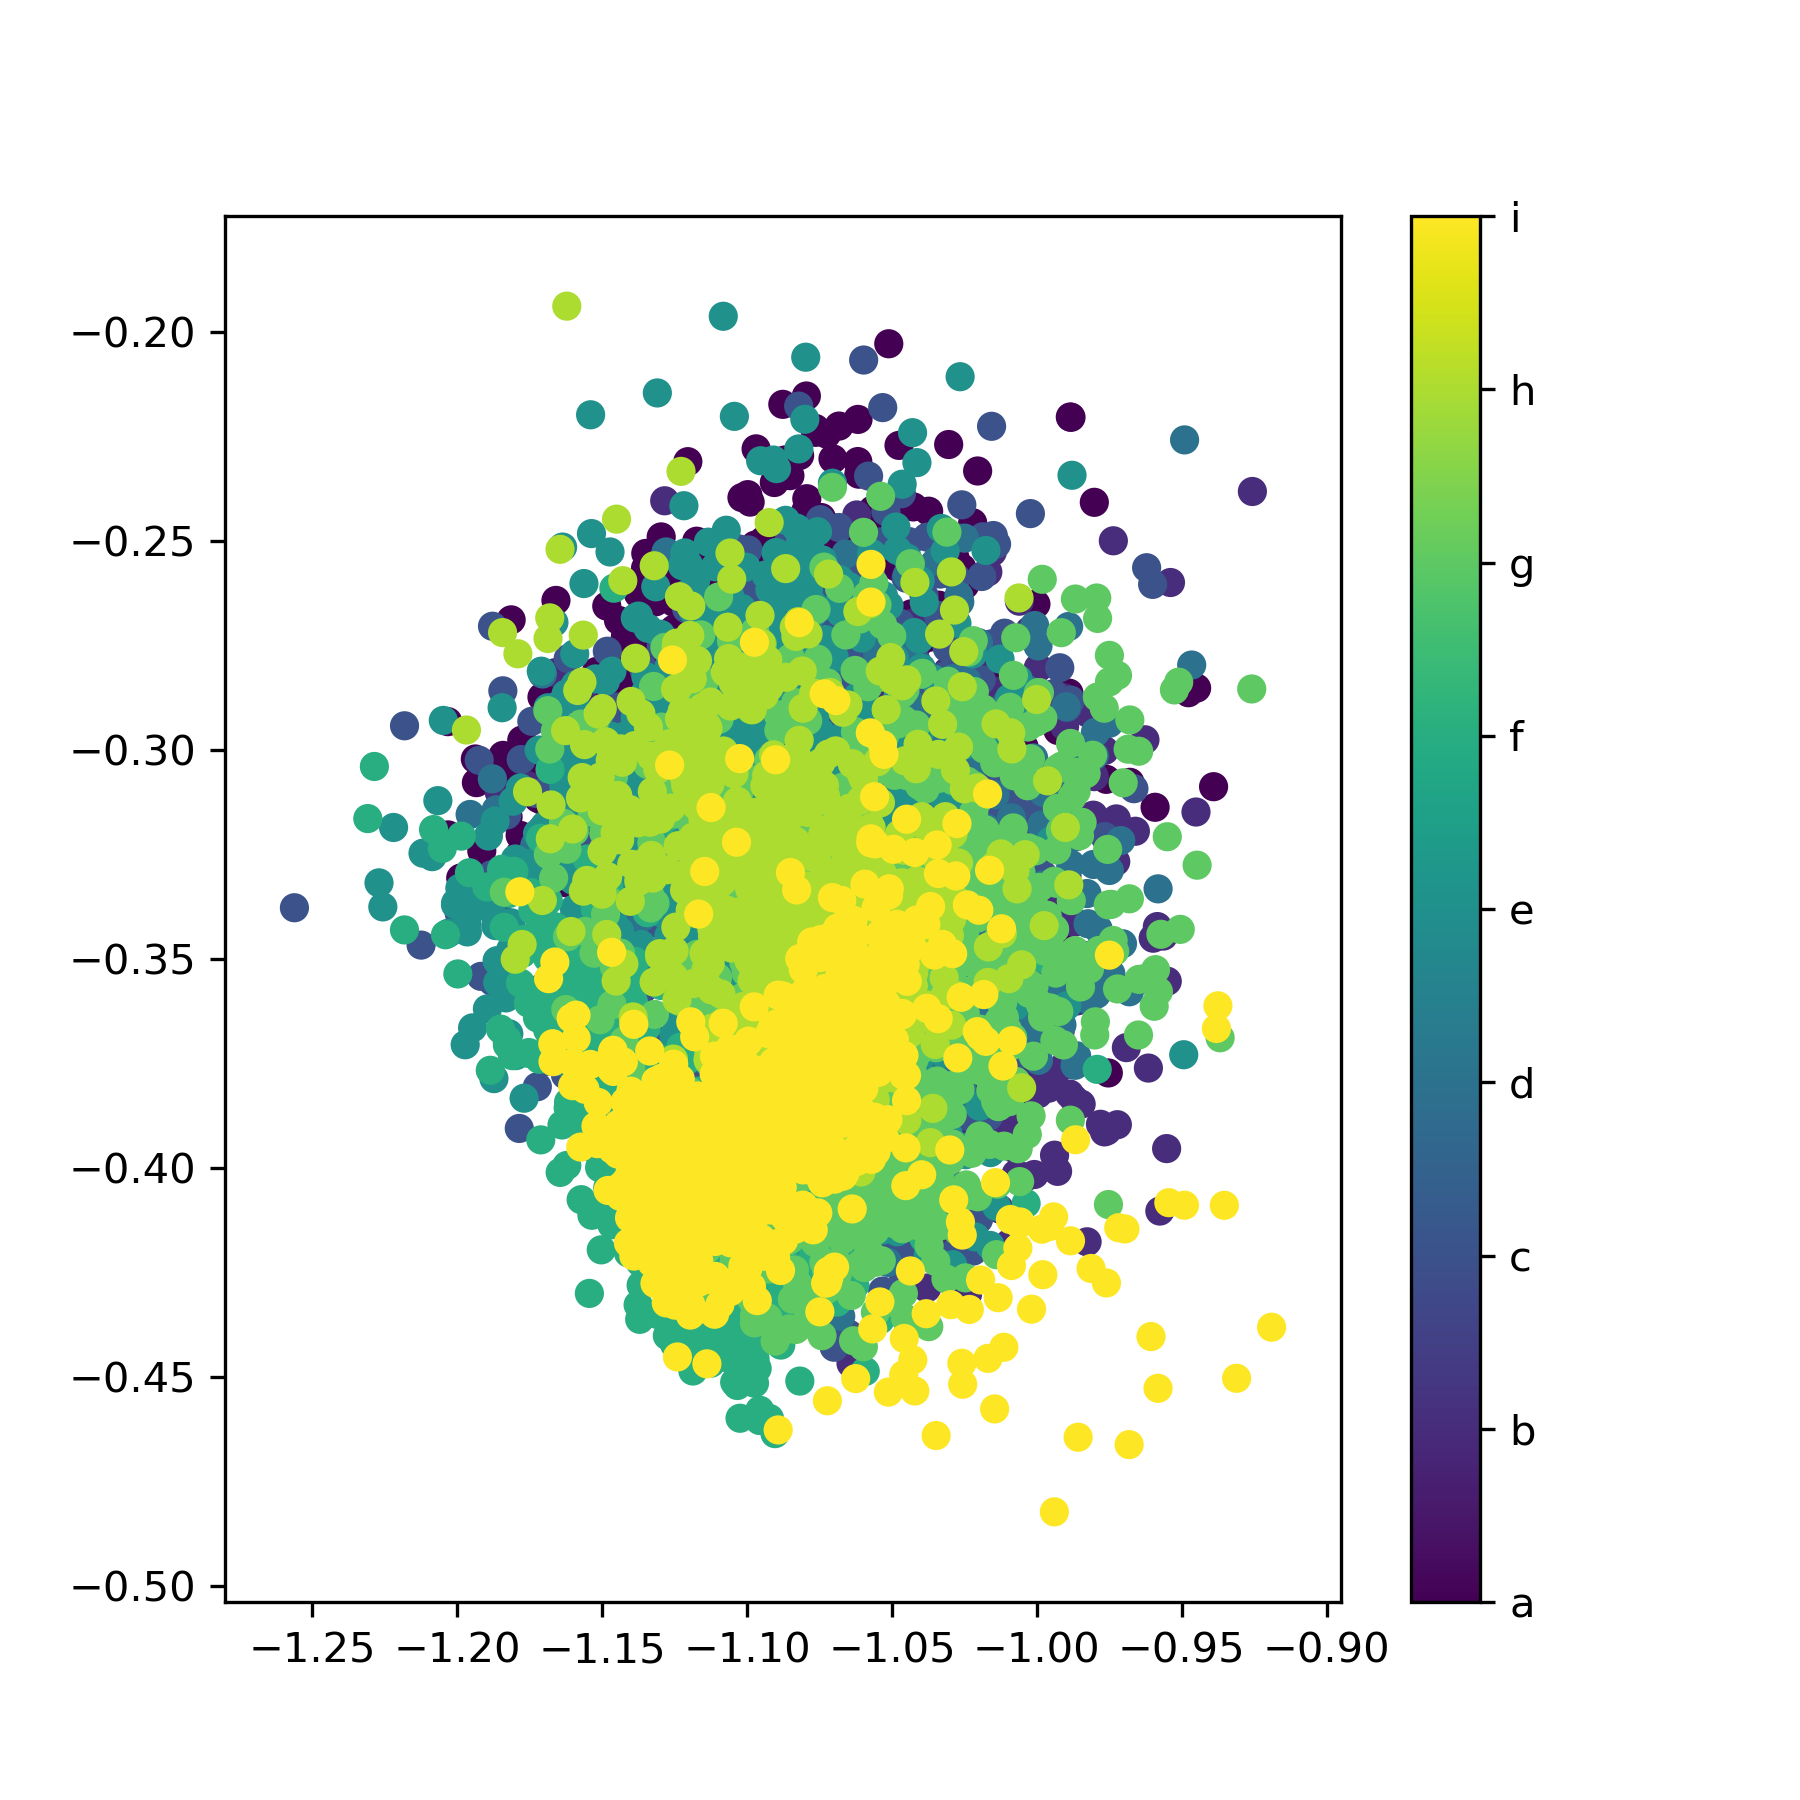
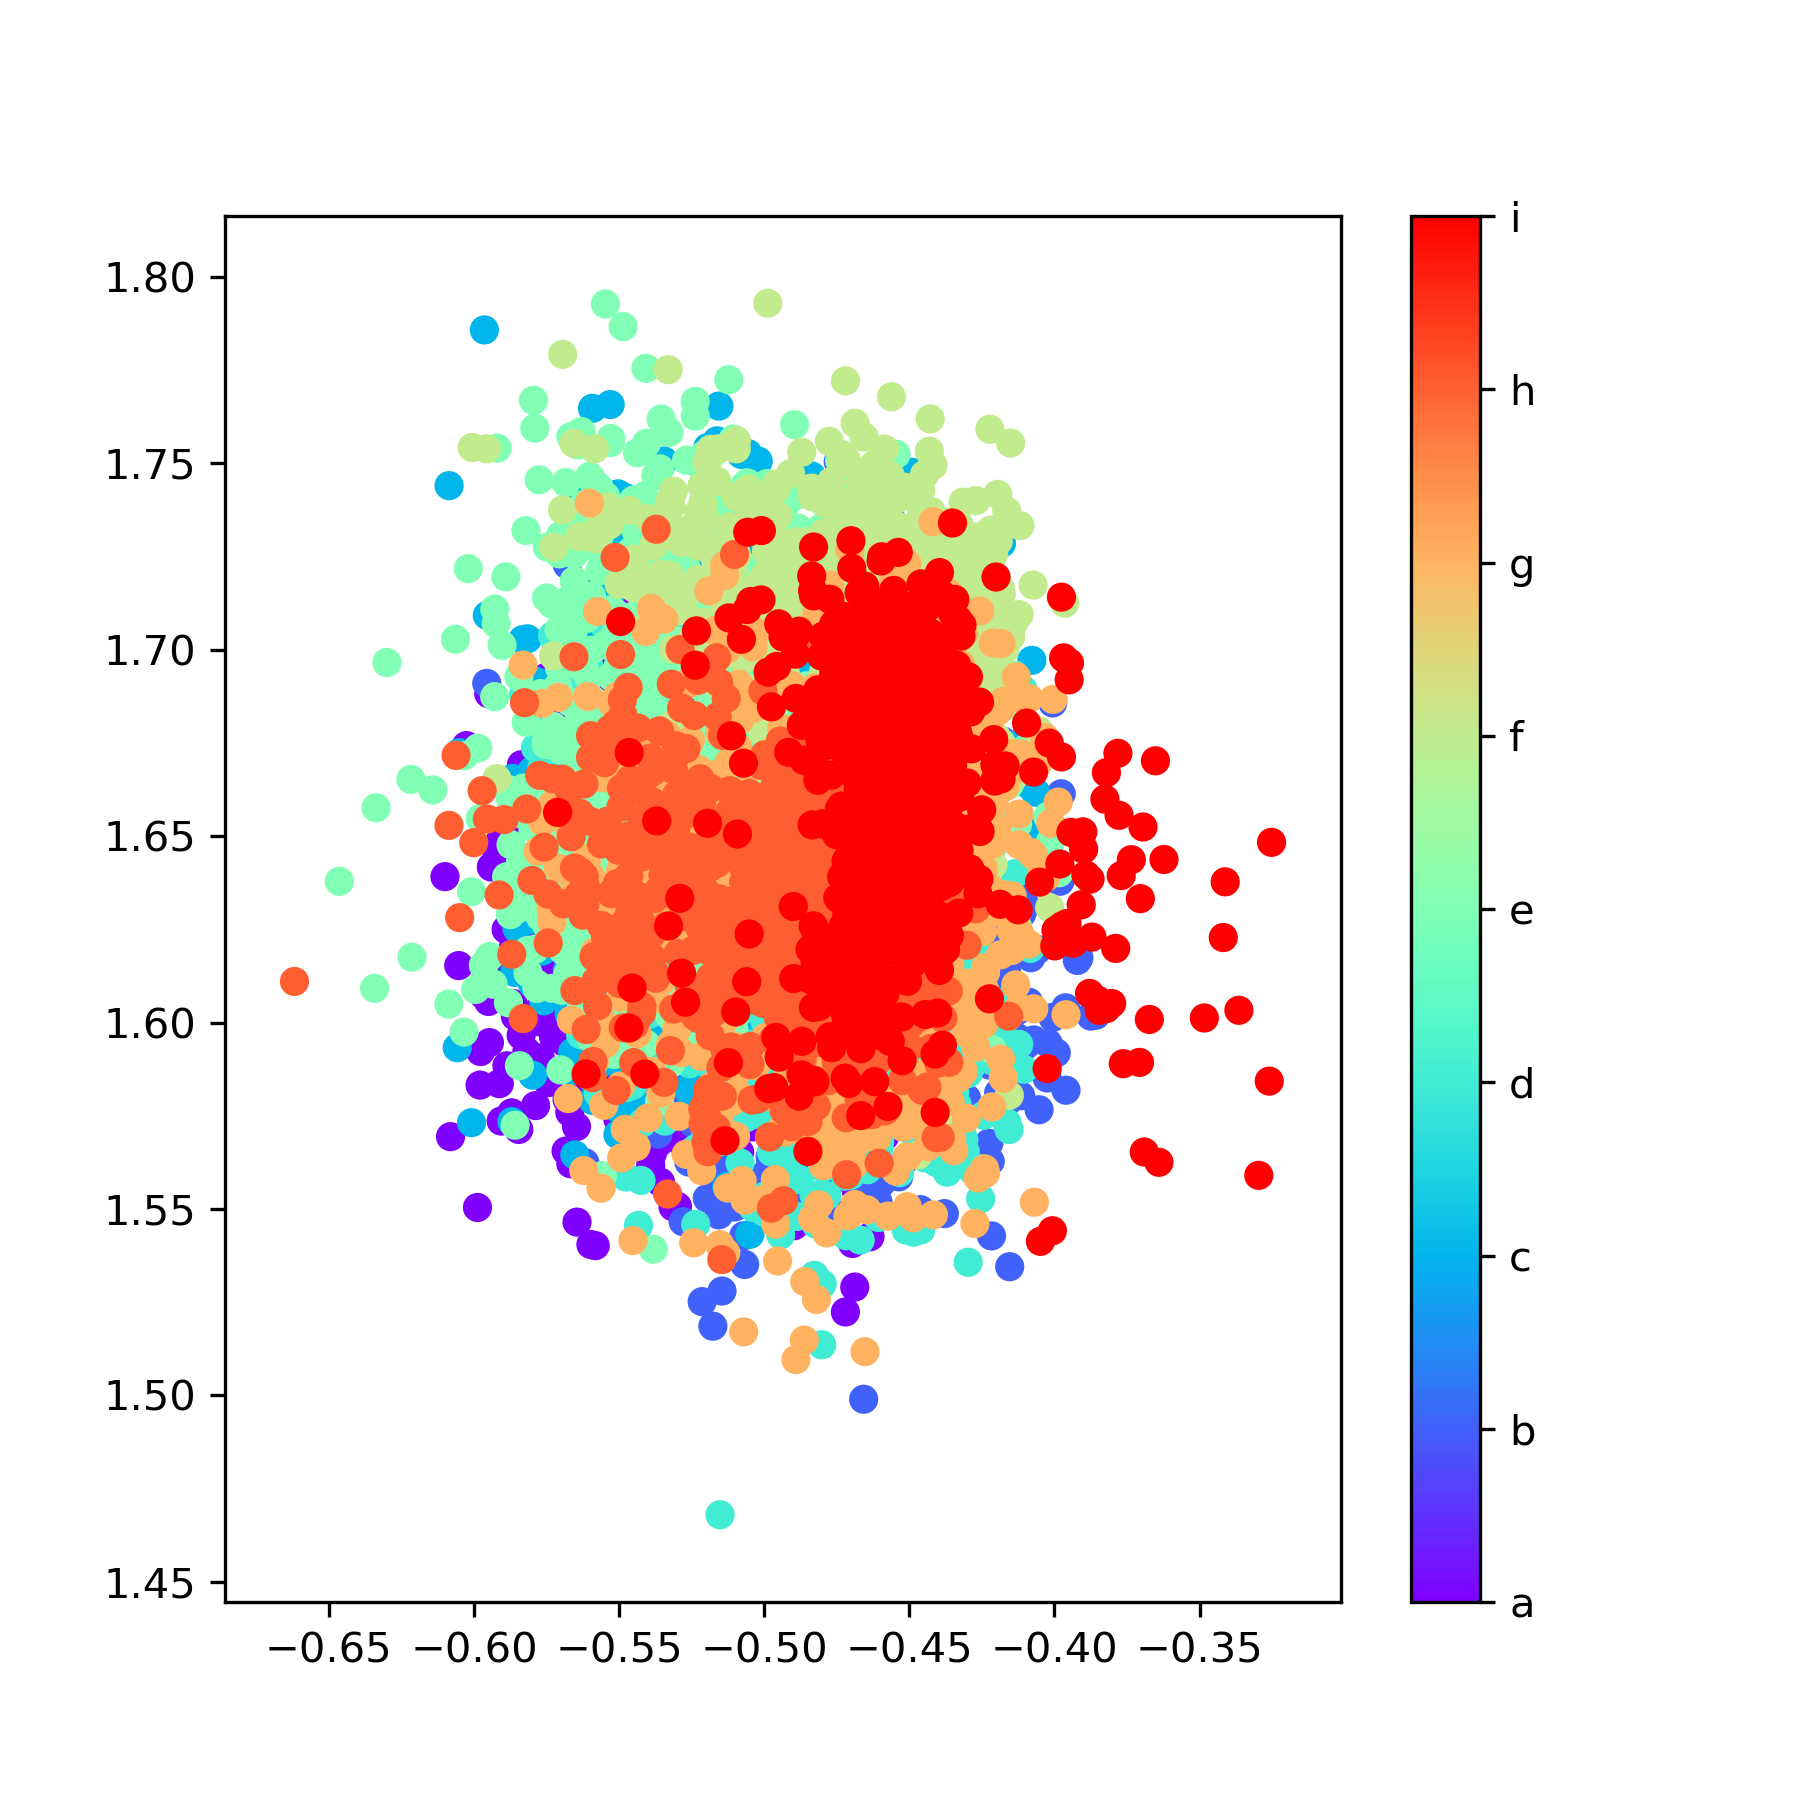
Better letters

diff --git a/Assignment_2/vae_autoencoder.py b/Assignment_2/vae_autoencoder.py
@@ -60,7 +60,7 @@ vae.add_loss(vae_loss)
 vae.compile(optimizer='rmsprop')
 vae.summary()
 
-emnist = spio.loadmat('/EMNIST/emnist-letters.mat')
+emnist = spio.loadmat('emnist-letters.mat')
 
 x_train = emnist["dataset"][0][0][0][0][0][0]
 y_train = emnist["dataset"][0][0][0][0][0][1]
@@ -96,11 +96,15 @@ vae.fit(x_train,
 # build a model to project inputs on the latent space
 encoder = Model(x, z_mean)
 
+y_partial = y_test[:7200,:].reshape(7200)
 # display a 2D plot of the digit classes in the latent space
 x_test_encoded = encoder.predict(x_test, batch_size=batch_size)
-plt.figure(figsize=(6, 6))
-plt.scatter(x_test_encoded[:, 0], x_test_encoded[:, 1], c=y_test)
-plt.colorbar()
+x_test_partial = x_test_encoded[:7200,:]
+
+fig, ax = plt.subplots(figsize=(6, 6))
+sc = ax.scatter(x_test_partial[:, 0], x_test_partial[:, 1], c=y_partial, cmap='rainbow')
+cbar = plt.colorbar(sc)
+cbar.ax.set_yticklabels(['a','b','c','d','e','f','g','h','i','j'])
 plt.savefig('letters_vis.png', dpi=300)
 plt.close()
 
